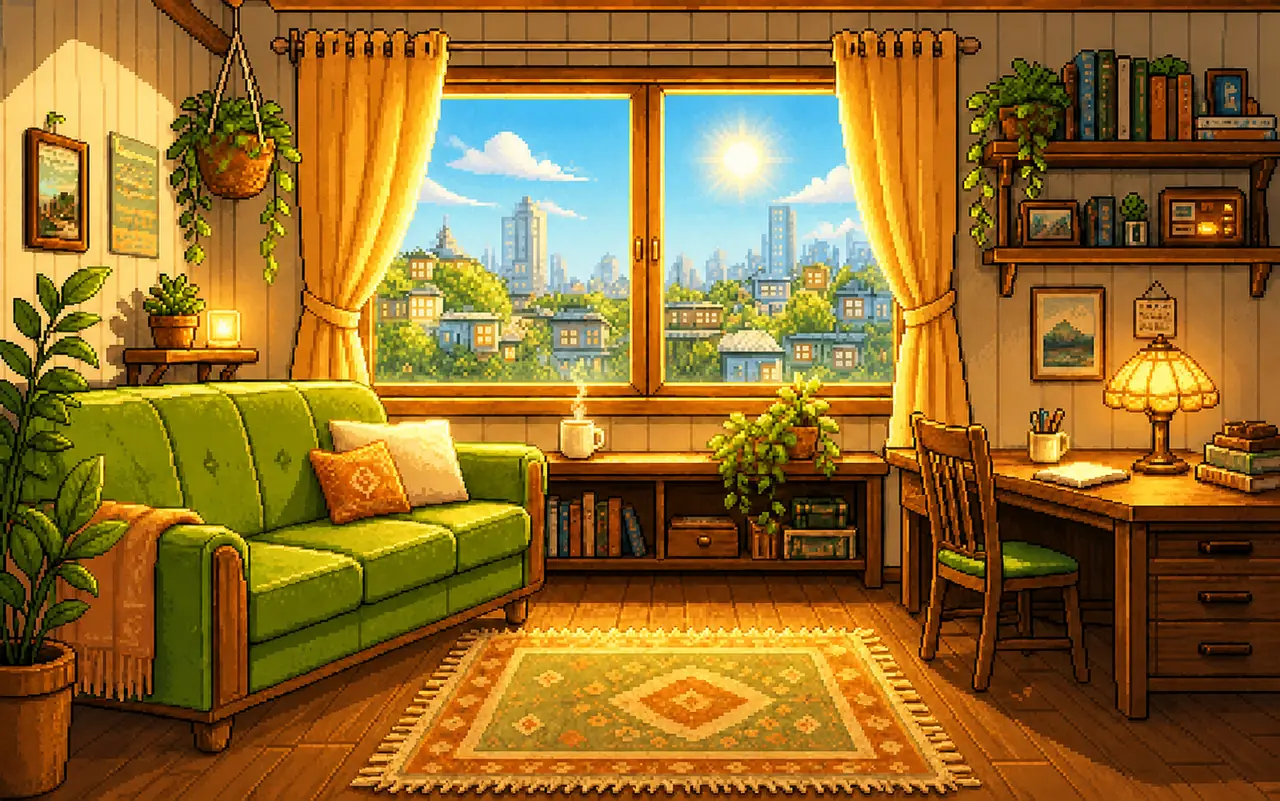
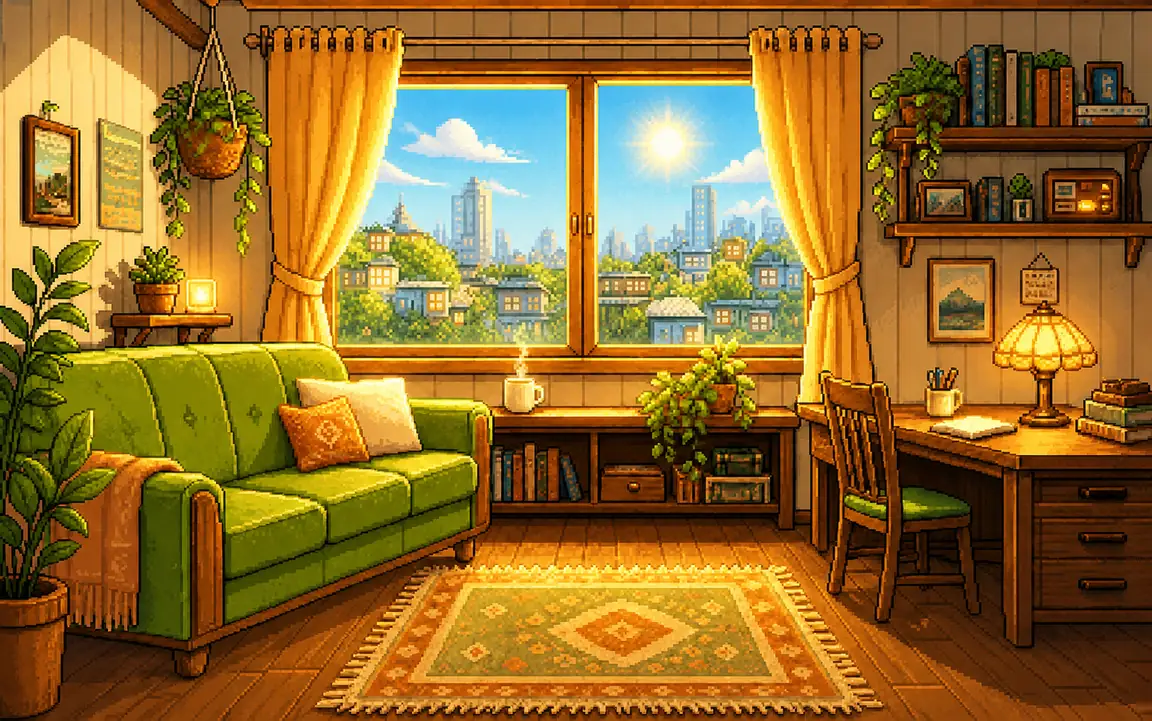
재검진 2차 반영: 글꼴 하나로 줄이고 사이트맵 링크·주석 정리·배경 추가 경량화
- Gaegu 웹폰트 제거(Gowun Dodum 하나만): 글꼴 파일 수와 용량 감소
- <head>에 rel=sitemap 링크 추가(프로젝트 사이트라 루트 robots.txt가 없어 사이트맵 위치를 페이지에 명시)
- app.css/app.js/i18n.js의 주석 제거
- 방 배경 webp 1152px q68로 재인코딩(장당 65~116KB)
- README에 카카오톡 공유 API 켜는 법, 도메인 연결, 루트 robots.txt 안내 추가
- 서비스 워커 v16

Claude-Session: https://claude.ai/code/session_012or3PCc1WWfoXkHrpMkKdL

diff --git a/app.js b/app.js
@@ -31,7 +31,6 @@ const IN_APP=/KAKAOTALK|Instagram|FBAN|FBAV|NAVER\(inapp|Line\//i.test(navigator
 function toast(msg){const t=$('#toast');t.textContent=msg;t.hidden=false;clearTimeout(toast.t);toast.t=setTimeout(()=>{t.hidden=true},2400)}
 function tstrOf(mins){const h=Math.floor(mins/60),m=mins%60;if(lang==='en')return ((h?h+'h ':'')+(m||!h?m+'m':'')).trim();if(lang==='de')return ((h?h+' Std. ':'')+(m||!h?m+' Min.':'')).trim();return (h?h+'시간 ':'')+(m||!h?m+'분':'')}
 
-/* ---------- cat svg ---------- */
 function frontHead(tf){return `<g transform="${tf||''}"><g class="head">
   <polygon class="ear l" points="40,36 46,10 60,30"/><polygon class="ear r" points="66,30 80,10 86,36"/>
   <polygon class="ear-in" points="45,33 48,18 56,29"/><polygon class="ear-in" points="70,29 78,18 81,33"/>
@@ -101,14 +100,12 @@ if($('#catSvg')) $('#catSvg').innerHTML=`<svg viewBox="0 0 120 100" aria-hidden=
 </g>
 </svg>`;
 
-/* ---------- state ---------- */
 const scene=$('#scene'),catEl=$('#cat'),bubble=$('#bubble'),bowl=$('#bowl');
 let run=store.get('run',null); // {state:'focus'|'done'|'break', endAt, dur, demo}
 let log=store.get('log',null); if(!log||log.date!==todayKey()) log={date:todayKey(),items:[]};
 let ui='setup', phase='idle', idleTimer=null, lookTimer=null, audioCtx=null, moveId=0, curX=13, curY=35, isSulking=store.get('sulking',false);
 
 
-/* ---------- Weather (Rain ASMR) ---------- */
 let rainSource=null, rainGain=null;
 
 function toggleRain(enable){
@@ -162,7 +159,6 @@ function startRainAudio(){
     const buffer = audioCtx.createBuffer(1, bufferSize, sr);
     const data = buffer.getChannelData(0);
 
-    // Warm pink noise generator
     let b0 = 0, b1 = 0, b2 = 0, b3 = 0, b4 = 0, b5 = 0, b6 = 0;
     for (let i = 0; i < bufferSize; i++) {
       const white = Math.random() * 2 - 1;
@@ -175,10 +171,8 @@ function startRainAudio(){
       const pink = (b0 + b1 + b2 + b3 + b4 + b5 + b6 + white * 0.5362) * 0.05;
       b6 = white * 0.115926;
 
-      // Soft rain wave breathing (very subtle)
       const swell = 0.92 + 0.08 * Math.sin((i / bufferSize) * Math.PI * 2);
 
-      // Cozy muffled "후둑... 후둑..." raindrops (warm 350-580Hz resonance, not sharp clicks)
       if (Math.random() < 0.00035) {
         const dropLen = Math.floor(sr * 0.035);
         const dropFreq = 340 + Math.random() * 240;
@@ -195,7 +189,6 @@ function startRainAudio(){
     rainSource.buffer = buffer;
     rainSource.loop = true;
 
-    // Filters: Highpass at 300Hz (no wind rumble), Lowpass at 1650Hz (warm, peaceful muffled room ASMR)
     const hp = audioCtx.createBiquadFilter();
     hp.type = 'highpass';
     hp.frequency.value = 300;
@@ -227,7 +220,6 @@ function stopRainAudio(){
   }
 }
 
-/* ---------- Treasures & Shelf (가변 보상) ---------- */
 const TREASURES = [
   { id: 'leaf', name: 'tr.leaf.name', icon: '🍂', desc: 'tr.leaf.desc' },
   { id: 'yarn', name: 'tr.yarn.name', icon: '🧶', desc: 'tr.yarn.desc' },
@@ -304,7 +296,6 @@ async function checkTreasureReward(){
   caption('gift.caption',{icon:picked.icon,name:t(picked.name)});
 }
 
-/* ---------- Polaroid Album (감성 폴라로이드 일기) ---------- */
 function getKongiQuote(mins, tod, rain, demo) {
   if (demo) return t('quote.demo');
   if (rain) return t('quote.rain',{m:mins});
@@ -513,7 +504,6 @@ function drawPolaroidCanvas(item){
   }
 }
 
-/* ---------- Intimacy & Motion Unlocks (친밀도 시스템) ---------- */
 const INTIMACY_LEVELS = [
   { level: 1, name: 'lv1.name', minXp: 0, maxXp: 30, icon: '🌱', desc: 'lv1.desc', motion: 'lv1.motion', spot: 'sofa', pose: 'sleep' },
   { level: 2, name: 'lv2.name', minXp: 30, maxXp: 90, icon: '🌿', desc: 'lv2.desc', motion: 'lv2.motion', spot: 'desk', pose: 'desk' },
@@ -666,7 +656,6 @@ function executeCatAction(spot, pose) {
   }
 }
 
-/* ---------- cat movement ---------- */
 const FLOOR=6;
 const SPOTS={
   sofa:{x:17.5,y:26.5},
@@ -679,8 +668,6 @@ const SPOTS={
   desk:{x:76,y:37},
   belly:{x:44,y:7.5}
 };
-/* On the sofa the sprite size differs by pose, so each pose gets its own seat position
-   (x = left edge %, y = bottom edge %, measured against the seat cushions in the room art). */
 const SOFA_POSE={sleep:{x:17.5,y:26.5},lie:{x:17.5,y:26.5},stretch:{x:16.5,y:26.5},back:{x:14.5,y:27},sit:{x:19,y:27},wait:{x:19,y:27}};
 function spotFor(spot,pose){const t=SPOTS[spot]||SPOTS.rug;return (spot==='sofa'&&SOFA_POSE[pose])?Object.assign({},t,SOFA_POSE[pose]):t}
 const SPRITES={
@@ -738,7 +725,6 @@ async function moveCat(spot, pose, face, opts){
   const curIsDesk = curY > 15 && curX >= 55;
   const targetIsDesk = target.y > 15 && target.x >= 55;
 
-  // Same elevated surface (e.g. sofa -> sofa or desk -> desk)
   if ((curIsSofa && targetIsSofa) || (curIsDesk && targetIsDesk)) {
     setFace(face !== undefined ? face : (targetIsDesk ? -1 : 1));
     setXY(target.x, target.y, 'left 280ms ease-in-out, bottom 280ms ease-in-out');
@@ -748,7 +734,6 @@ async function moveCat(spot, pose, face, opts){
     return;
   }
 
-  // 1. If currently elevated (sofa or desk), hop down to floor first
   if (curY > 15) {
     const isDesk = curX >= 55;
     const dropFloorX = isDesk ? 74 : 26;
@@ -759,13 +744,10 @@ async function moveCat(spot, pose, face, opts){
     if (moveId !== id) return;
   }
 
-  // 2. Now cat is on the floor (curY <= 15).
-  // Determine floor base coordinate for target:
   const isTargetElevated = target.y > 15;
   const targetFloorX = isTargetElevated ? (target.x >= 55 ? 74 : 26) : target.x;
   const targetFloorY = isTargetElevated ? 7.5 : target.y;
 
-  // Walk horizontally on floor if needed
   const walkDist = Math.abs(targetFloorX - curX);
   if (walkDist > 1.8) {
     const walkDir = targetFloorX < curX ? -1 : 1;
@@ -777,7 +759,6 @@ async function moveCat(spot, pose, face, opts){
     if (moveId !== id) return;
   }
 
-  // 3. If target is elevated (sofa or desk), leap up from floor base to target!
   if (isTargetElevated) {
     const isTargetDesk = target.x >= 55;
     setFace(isTargetDesk ? 1 : -1);
@@ -787,7 +768,6 @@ async function moveCat(spot, pose, face, opts){
     if (moveId !== id) return;
   }
 
-  // Final pose and orientation
   setFace(face !== undefined ? face : (target.x >= 55 ? -1 : 1));
   setPose(pose);
 }
@@ -803,7 +783,6 @@ function crumbs(){for(let i=0;i<3;i++){const s=document.createElement('span');s.
 let lastCaption=null,lastStatus=null;
 function caption(k,v){lastCaption={k,v};$('#caption').textContent=fill(t(k,v))}
 
-/* small fidgets so the cat never looks frozen */
 function fidget(){
   const p=catEl.dataset.pose;if(reduced()||catEl.classList.contains('walking')||catEl.classList.contains('jump'))return;
   const o=[];
@@ -842,7 +821,6 @@ function pickIdle(){
 }
 function setStatus(k,v){lastStatus={k,v};$('#focusStatus').textContent=fill(t(k,v));caption(k,v)}
 
-/* ---------- audio / wake lock ---------- */
 function ensureAudio(){try{if(!audioCtx)audioCtx=new (window.AudioContext||window.webkitAudioContext)();if(audioCtx.state==='suspended')audioCtx.resume()}catch(e){}}
 function chime(){try{if(!audioCtx)return;const t=audioCtx.currentTime;[[659,0],[880,.22],[1046,.44]].forEach(([f,d])=>{
   const o=audioCtx.createOscillator(),g=audioCtx.createGain();o.type='sine';o.frequency.value=f;
@@ -855,7 +833,6 @@ function crunch(){try{if(!audioCtx)return;const n=audioCtx.sampleRate*.06,b=audi
 let lock=null;function wake(){try{if(navigator.wakeLock&&!lock)navigator.wakeLock.request('screen').then(l=>{lock=l;l.addEventListener('release',()=>{lock=null})}).catch(()=>{})}catch(e){}}
 document.addEventListener('visibilitychange',()=>{if(document.visibilityState==='visible'&&run)wake()});
 
-/* ---------- UI ---------- */
 function show(id){ui=id;['setup','focus','done','after','break'].forEach(k=>{$('#ui-'+k).hidden=k!==id})}
 const fmt=s=>{s=Math.ceil(s/1000);const h=Math.floor(s/3600),m=Math.floor(s%3600/60),x=s%60;return (h?h+':':'')+(h?pad(m):m<10?'0'+m:m)+':'+pad(x)};
 function tick(){
@@ -929,7 +906,6 @@ async function giveTreat(){
     store.set('log',log);renderLog();
     if(run)recordAlbum(run);
     
-    // Intimacy XP
     const gainedXp = wasDemo ? 15 : Math.max(25, 25 + sessionMin);
     addIntimacy(gainedXp);
 
@@ -989,7 +965,6 @@ function doStop(){
   show('setup');
 }
 
-/* ---------- log ---------- */
 const BOOK=['#b2574f','#4f6d8a','#7a8a4f','#c9933e','#6a5a8a','#8a5a3c'];
 function renderLog(){
   const done=log.items.filter(i=>i.type==='done'),stops=log.items.filter(i=>i.type==='stop');
@@ -1023,13 +998,11 @@ function renderLog(){
   const le=$('#logEmpty');if(le)le.hidden=log.items.length>0;
 }
 
-/* ---------- time of day ---------- */
 function tod(){const o=store.get('tod','auto');if(o!=='auto')return o;const h=new Date().getHours();
   return h>=6&&h<10?'morning':h<17?'day':h<20?'sunset':'night'}
 function applyTod(){scene.classList.remove('t-morning','t-day','t-sunset','t-night');scene.classList.add('t-'+tod())}
 setInterval(applyTod,60000);
 
-/* ---------- share card ---------- */
 function shareStats(){
   const done=log.items.filter(i=>i.type==='done'&&!i.demo);
   const mins=done.reduce((a,b)=>a+b.min,0);
@@ -1112,7 +1085,6 @@ function drawCard(data){
   x.font='400 46px '+ff;x.fillStyle=mut;x.fillText(t('title.room').replace('{N}',name)+' · '+t('tagline'),W/2,1800);
 }
 
-/* ---------- share sheet ---------- */
 function resultUrl(st){
   const p=new URLSearchParams({s:st.sessions,m:st.mins,l:st.last,n:petName,t:tod(),d:todayKey().replace(/-/g,'')});
   return SITE_URL+'?'+p.toString();
@@ -1187,7 +1159,6 @@ function openResultView(){
   return true;
 }
 
-/* ---------- events ---------- */
 $$('.chip').forEach(b=>b.addEventListener('click',()=>{$$('.chip').forEach(c=>c.setAttribute('aria-pressed','false'));b.setAttribute('aria-pressed','true');$('#customMin').value=b.dataset.min}));
 $('#customMin').addEventListener('input',e=>{$$('.chip').forEach(c=>c.setAttribute('aria-pressed',String(+c.dataset.min===+e.target.value)))});
 $('#startBtn').addEventListener('click',()=>{let v=parseInt($('#customMin').value,10);if(!(v>=5)){v=5;$('#customMin').value=5}if(v>180){v=180;$('#customMin').value=180}start(v*60,false)});
@@ -1332,7 +1303,6 @@ $('#lvlActionBtn').addEventListener('click',()=>{
 
 document.addEventListener('keydown',e=>{if(e.key==='Escape'){$('#shareModal').hidden=true;$('#stopModal').hidden=true;$('#shelfModal').hidden=true;$('#albumModal').hidden=true;$('#polaroidDetailModal').hidden=true;$('#intimacyModal').hidden=true;$('#levelUpModal').hidden=true;$('#shareSheet').hidden=true;$('#resultModal').hidden=true;}});
 
-/* ---------- language ---------- */
 function applyLang(){
   document.documentElement.lang=lang;
   $$('[data-i18n]').forEach(el=>{el.textContent=t(el.dataset.i18n)});
@@ -1353,7 +1323,6 @@ function applyLang(){
 const langSel=$('#langSel');
 if(langSel){langSel.addEventListener('change',e=>{const v=e.target.value;if(!LANGS.includes(v))return;lang=v;store.set('lang',v);applyLang()})}
 
-/* ---------- boot ---------- */
 applyLang();applyTod();renderLog();renderShelf();updateIntimacyBadge();
 openResultView();
 if(store.get('rain',false)){toggleRain(true);}

diff --git a/app.css b/app.css
@@ -1,5 +1,4 @@
 
-/* ---------- Weather / Rain ---------- */
 .scene.rainy{--sky1:#728394;--sky2:#9db0bf;--shade:rgba(30,45,60,.18)}
 .scene.rainy .window{background:linear-gradient(var(--sky1),var(--sky2))}
 .scene.rainy .window .sun,.scene.rainy .window .moon,.scene.rainy .window .stars,.scene.rainy .window .bird{opacity:0!important}
@@ -10,7 +9,6 @@
 .rain .bead{position:absolute;border-radius:50%;background:rgba(255,255,255,.65);box-shadow:0 1px 2px rgba(0,0,0,.25)}
 #rainBtn[aria-pressed="true"]{background:var(--accent);color:var(--accent-fg);border-color:var(--accent)}
 
-/* ---------- Wall Shelf & Treasures ---------- */
 .shelf{left:39%;top:18%;width:16%;height:14%;position:absolute;cursor:pointer;transition:transform .2s}
 .shelf:hover{transform:translateY(-2px)}
 .shelf .shelf-board{position:absolute;left:0;right:0;bottom:18%;height:12%;background:#7b5234;border-radius:3px;box-shadow:0 .3cqw .6cqw rgba(0,0,0,.2)}
@@ -20,7 +18,6 @@
 .shelf-item{display:inline-block;animation:popIn .4s cubic-bezier(.175,.885,.32,1.275);filter:drop-shadow(0 2px 3px rgba(0,0,0,.3));user-select:none}
 @keyframes popIn{0%{transform:scale(0) translateY(10px);opacity:0}80%{transform:scale(1.2) translateY(-2px)}100%{transform:scale(1) translateY(0);opacity:1}}
 
-/* ---------- Polaroid Album Modal ---------- */
 .polaroid-grid{display:grid;grid-template-columns:repeat(auto-fill,minmax(180px,1fr));gap:16px;max-height:60vh;overflow-y:auto;padding:10px 4px}
 .polaroid-card{background:#fff;padding:10px 10px 18px 10px;border-radius:4px;box-shadow:0 4px 12px rgba(0,0,0,.15);transform:rotate(calc(var(--rot, 0) * 1deg));transition:transform .2s, box-shadow .2s;color:#333;text-align:center;cursor:pointer}
 .polaroid-card:hover{transform:scale(1.04) rotate(0deg);box-shadow:0 8px 24px rgba(0,0,0,.22);z-index:2}
@@ -32,7 +29,6 @@
 .tab-btn.active{color:var(--fg);background:var(--soft)}
 
 
-/* ---------- Lo-Fi Pixel Art Enhancements ---------- */
 .pixel-cat{position:absolute;width:17%;cursor:pointer;transform-origin:bottom center;
   transition:left .65s cubic-bezier(.25,1,.5,1), bottom .65s cubic-bezier(.25,1,.5,1);
   image-rendering:pixelated;z-index:20}
@@ -51,11 +47,9 @@
 
 @keyframes pixelBreathe{0%{transform:scale(1) translateY(0)}50%{transform:scale(1.025,.975) translateY(1px)}100%{transform:scale(1) translateY(0)}}
 
-/* Window Rain Overlay */
 .window-rain{position:absolute;left:31.5%;top:11%;width:28.5%;height:28.5%;overflow:hidden;pointer-events:none;opacity:0;transition:opacity .5s;z-index:5;border-radius:2px}
 .scene.rainy .window-rain{opacity:1}
 
-/* Interactive Native Hotspots */
 .hotspot{position:absolute;cursor:pointer;border-radius:4px;transition:transform .2s, background .2s;z-index:15}
 .hotspot:hover{outline:2px dashed rgba(255,235,160,.85);background:rgba(255,235,160,.12);transform:scale(1.05)}
 .hotspot-badge{position:absolute;top:-8px;right:-8px;font-size:15px;animation:floatBadge 2s ease-in-out infinite alternate;filter:drop-shadow(0 2px 4px rgba(0,0,0,.6))}
@@ -67,16 +61,14 @@
 .steam-p:nth-child(3){left:8px;animation-delay:1.5s;animation-duration:2.1s}
 @keyframes steamRise{0%{opacity:0;transform:translate(0,0) scale(1)}30%{opacity:.85}100%{opacity:0;transform:translate(-3px,-22px) scale(2.6)}}
 
-/* Tool & Radio Cards */
 .tool-card{display:flex;align-items:center;gap:14px;padding:12px 14px;background:var(--soft);border:1px solid var(--line);border-radius:10px;text-decoration:none;color:inherit;transition:transform .2s,border-color .2s}
 .tool-card:hover{transform:translateY(-2px);border-color:var(--accent)}
 
-/* Layout: a window into the room on the left, a quiet control panel on the right; stacks on phones. */
 :root{
   --bg:#ece3d4; --fg:#372c25; --muted:#857566; --panel:#f6f0e6; --line:#d8c9b4;
   --accent:#4f6d52; --accent-fg:#fbf8f2; --soft:#e4dccd; --danger:#a65b3b;
   --body:"Gowun Dodum","Apple SD Gothic Neo","Noto Sans KR",system-ui,sans-serif;
-  --hand:"Gaegu","Gowun Dodum",cursive;
+  --hand:"Gowun Dodum","Apple SD Gothic Neo","Noto Sans KR",sans-serif;
   --mono:ui-monospace,"SF Mono",Menlo,Consolas,monospace;
 }
 @media (prefers-color-scheme: dark){
@@ -118,7 +110,6 @@ select{font:inherit;font-size:13px;color:var(--fg);background:var(--panel);borde
 main{display:grid;grid-template-columns:minmax(0,1.45fr) minmax(0,1fr);gap:16px;align-items:start}
 @media (max-width:720px){main{grid-template-columns:1fr}}
 
-/* ---------- The room ---------- */
 .scene{position:relative;aspect-ratio:16/10;max-width:100%;overflow:hidden;border-radius:18px;container-type:inline-size;
   background:#1a1520 no-repeat center center / cover;
   transition:background-image .4s ease;
@@ -189,7 +180,6 @@ main{display:grid;grid-template-columns:minmax(0,1.45fr) minmax(0,1fr);gap:16px;
 @keyframes drop{0%{opacity:1;transform:translateY(0) rotate(0)}100%{opacity:1;transform:translateY(790%) rotate(50deg)}}
 .shade-ov{inset:0;background:var(--shade);pointer-events:none;transition:background 1s}
 
-/* ---------- cat ---------- */
 .cat{width:17%;left:13%;bottom:35%;cursor:default;--cat:#e39a4c;--cat2:#c6782c;--ear:#f2b2a0;--eye:#2e2a24}
 .cat.petable{cursor:pointer}
 .cat .wrap{transition:transform .15s}
@@ -271,7 +261,6 @@ main{display:grid;grid-template-columns:minmax(0,1.45fr) minmax(0,1fr);gap:16px;
 .bubble::after{content:"";position:absolute;left:28%;bottom:-.9cqw;width:1.6cqw;height:1.6cqw;background:#fff;transform:rotate(45deg)}
 .scene .caption{left:0;right:0;bottom:0;padding:.8cqw 1.6cqw;font:2.3cqw/1.3 var(--hand);font-size:max(2.3cqw,11px);color:#fff;text-shadow:0 .1cqw .5cqw rgba(0,0,0,.5);background:linear-gradient(transparent,rgba(0,0,0,.28));pointer-events:none}
 
-/* ---------- Panel ---------- */
 .panel{background:var(--panel);border:1px solid var(--line);border-radius:18px;padding:20px;display:flex;flex-direction:column;gap:14px;min-width:0}
 .panel h2{margin:0;font-size:17px;font-weight:400}
 .panel p{margin:0;color:var(--muted);font-size:14px}
@@ -307,7 +296,6 @@ footer .empty{color:var(--muted);font-size:13.5px}
 .card-wrap{display:flex;justify-content:center}
 .card-wrap canvas{width:auto;height:min(56vh,520px);max-width:100%;border-radius:14px;box-shadow:0 10px 30px rgba(0,0,0,.25)}
 
-/* Intimacy & Motion Unlocks */
 .intimacy-badge{display:inline-flex;align-items:center;gap:6px;padding:5px 11px;border-radius:20px;border:1.5px solid #f8c9b8;background:#fff6f2;color:#b84224;font-size:12.5px;font-weight:700;cursor:pointer;transition:transform .2s,box-shadow .2s;white-space:nowrap}
 .intimacy-badge:hover{transform:translateY(-1px);box-shadow:0 3px 8px rgba(184,66,36,.18)}
 .xp-float{position:absolute;color:#e84128;font-weight:800;font-size:16px;pointer-events:none;z-index:99;animation:floatXp 1.4s ease-out forwards;text-shadow:0 1px 3px rgba(255,255,255,.9)}

diff --git a/index.html b/index.html
@@ -42,7 +42,8 @@ img{max-width:100%}
 </style>
 <link rel="preconnect" href="https://fonts.googleapis.com">
 <link rel="preconnect" href="https://fonts.gstatic.com" crossorigin>
-<link rel="stylesheet" href="https://fonts.googleapis.com/css2?family=Gowun+Dodum&family=Gaegu:wght@700&display=swap">
+<link rel="stylesheet" href="https://fonts.googleapis.com/css2?family=Gowun+Dodum&display=swap">
+<link rel="sitemap" type="application/xml" title="Sitemap" href="sitemap.xml">
 <link rel="stylesheet" href="app.css">
 <script src="i18n.js"></script>
 </head>

diff --git a/i18n.js b/i18n.js
@@ -1,5 +1,3 @@
-/* 콩이네 방 UI strings. Korean is the source language; {N} is the cat's name.
-   Korean templates may use particle tokens ({N가} {N는} {N를} {N와} {N네} {N랑}) that app.js resolves. */
 window.KONGI_I18N = {
 ko: {
   'lang.aria':'언어','hdr.nameAria':'고양이 이름','hdr.suffix':'네 방','hdr.tagline':'· 고양이와 함께하는 집중 타이머',

diff --git a/sw.js b/sw.js
@@ -1,5 +1,5 @@
 /* 콩이네 방 service worker: keeps the app shell offline, caches room art lazily. */
-const VERSION = 'kongi-v15';
+const VERSION = 'kongi-v16';
 const SHELL = [
   './',
   './index.html',

diff --git a/README.md b/README.md
@@ -64,3 +64,21 @@ python3 -m http.server 8000
 ```
 
 브라우저에서 `http://localhost:8000` 접속.
+
+---
+
+## 🔧 카카오톡 공유 켜기 (선택)
+
+공유 시트의 카카오톡 버튼은 기본으로 휴대폰 공유창이나 "복사 후 붙여넣기"로 동작합니다. 카카오 공유 API로 바로 보내려면:
+
+1. https://developers.kakao.com 에서 앱을 만들고 **플랫폼 → Web** 에 `https://anbucare.github.io` 를 등록합니다.
+2. 앱 키 중 **JavaScript 키**를 복사해 `app.js` 의 `const KAKAO_JS_KEY=''` 안에 넣습니다.
+3. 배포하면 카카오톡 버튼이 카카오 공유창(미리보기 그림 + "나도 해 보기" 버튼)을 엽니다.
+
+## 🌐 도메인 연결 (선택)
+
+도메인을 사면 저장소 **Settings → Pages → Custom domain** 에 입력하고, DNS에 `CNAME anbucare.github.io` 를 추가합니다. 이후 `index.html` 의 canonical·og:url·sitemap.xml 주소를 새 도메인으로 바꾸면 됩니다. GitHub Pages는 예전 `github.io` 주소를 새 도메인으로 자동 301 이동시킵니다.
+
+## 🗺 robots.txt 참고
+
+프로젝트 사이트라 `robots.txt` 는 `/Kongi-room/robots.txt` 에 있고, 검색엔진이 보는 도메인 루트(`anbucare.github.io/robots.txt`)에는 올라가지 않습니다. 루트에 두려면 `anbucare.github.io` 이름의 저장소를 만들어 그 안에 robots.txt 를 두고 `Sitemap: https://anbucare.github.io/Kongi-room/sitemap.xml` 줄을 적으면 됩니다. 페이지 `<head>` 에는 `<link rel="sitemap">` 으로 사이트맵 위치를 적어 두었습니다.
